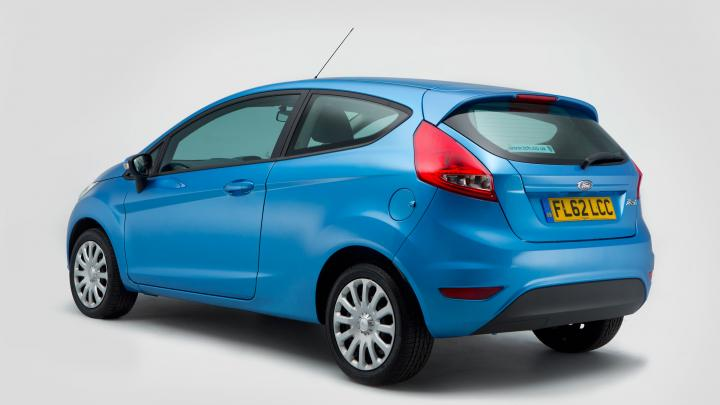
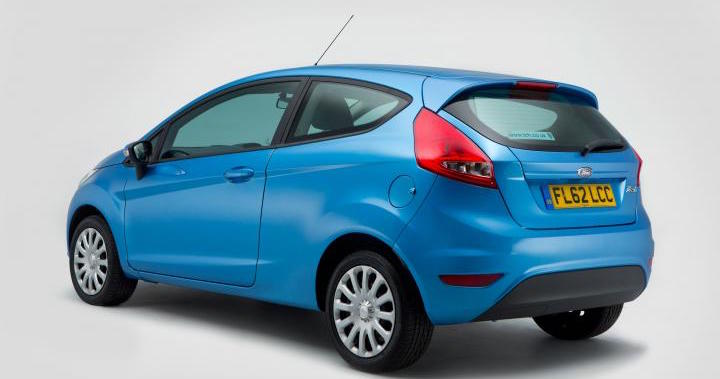
js added to gallery images to optimised portrait and landscape

Changed region(s): [[0.0917, 0.1451, 0.9167, 1.0], [0.5194, 0.5224, 0.55, 0.5805], [0.4583, 0.058, 0.4889, 0.1161]]

diff --git a/assets/js/scripts.js b/assets/js/scripts.js
@@ -3,6 +3,31 @@ var mycar = mycar || {};
 mycar = {
   init: function() {
 
+  },
+
+  setImageFormat: function() {
+    var maxLandscapeHeight = 0;
+
+    $('.c-image-gallery__single img').each(function(i){
+      var width   = $(this).width();
+      var height  = $(this).height();
+
+      // Landscape
+      if(width >= height){
+        $(this).css('width', '100%');
+
+        // get tallest landspace to then apply to portrait image
+        maxLandscapeHeight = maxLandscapeHeight > height ? maxLandscapeHeight : height;
+        console.log('max',maxLandscapeHeight);
+
+      }else { // Portrait
+        $(this).addClass('gallery-portrait');
+        $(this).css('height', '100%');
+      }
+      // console.log(i + ' ' + height);
+      // console.log(i + ' ' + width);
+    });
+    $('.gallery-portrait').css('max-height', maxLandscapeHeight + 'px');
   }
 };
 
@@ -48,6 +73,7 @@ mycar.menuPopUp = {
 };
 
 
+
 // Various triggers
 
 $('.js-popup').on('click', function() {
@@ -86,4 +112,10 @@ $('.c-image-gallery-nav').slick({
               }
             }
           ]
+});
+
+$(document).ready(function(){
+  if( $('.c-image-gallery').hasClass('slick-initialized') ) {
+    mycar.setImageFormat();
+  }
 });

diff --git a/assets/css/main.css b/assets/css/main.css
@@ -984,22 +984,34 @@ body {
   left: 0;
   cursor: pointer; }
 
+.c-image-gallery__wrapper {
+  border: 4px solid #71d6fc; }
+
 .c-image-gallery {
-  border: 4px solid #71d6fc;
   background: #000000;
-  height: auto; }
+  height: auto;
+  max-height: 400px; }
   .c-image-gallery img {
-    width: 100%; }
+    max-width: 100%;
+    margin: auto;
+    max-height: 400px; }
 
 .c-image-gallery__single {
+  max-height: 100%;
   position: relative;
   overflow: hidden; }
 
+.c-image-gallery .slick-track {
+  display: -webkit-box;
+  display: -ms-flexbox;
+  display: flex; }
+  .c-image-gallery .slick-track .c-image-gallery__single {
+    -ms-flex-item-align: center;
+        align-self: center; }
+
 .c-image-gallery-nav {
   height: 100px;
-  border-bottom: 4px solid #71d6fc;
-  border-right: 4px solid #71d6fc;
-  border-left: 4px solid #71d6fc; }
+  border-top: 4px solid #71d6fc; }
   .c-image-gallery-nav .slick-slide {
     height: 100%; }
 

diff --git a/assets/sass/5-components/_slider.scss b/assets/sass/5-components/_slider.scss
@@ -1,7 +1,11 @@
-.c-image-gallery {
+.c-image-gallery__wrapper {
   border: 4px solid $color-blue;
+}
+
+.c-image-gallery {
   background: $color-black;
   height: auto;
+  max-height: 400px;
 
   img {
     // position: absolute;
@@ -11,20 +15,31 @@
     // left: -9999px;
     // right: -9999px;
     // margin: auto;
-    width: 100%;
+    max-width: 100%;
+    margin: auto;
+    max-height: 400px;
   }
 }
 
 .c-image-gallery__single {
+  max-height: 100%;
   position: relative;
   overflow: hidden;
 }
 
+.c-image-gallery {
+  .slick-track {
+    display: flex;
+
+    .c-image-gallery__single {
+      align-self: center;
+    }
+  }
+}
+
 .c-image-gallery-nav {
   height: 100px;
-  border-bottom: 4px solid $color-blue;
-  border-right: 4px solid $color-blue;
-  border-left: 4px solid $color-blue;
+  border-top: 4px solid $color-blue;
 
   .slick-slide {
     height: 100%;
